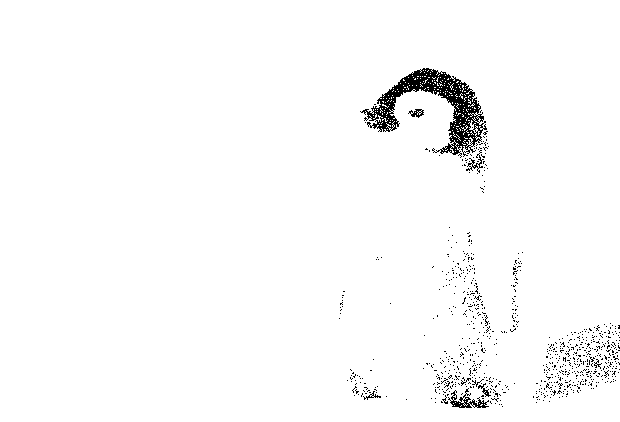
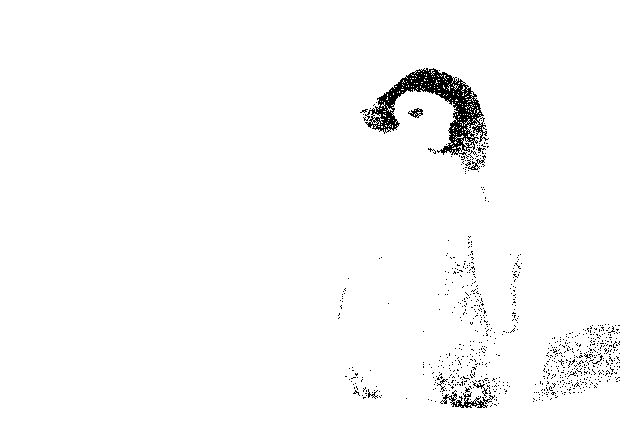
Change importance sampling image

diff --git a/examples/main.go b/examples/main.go
@@ -31,7 +31,7 @@ func main() {
 	halfgone.SaveImagePNG(rtd, "images/random_threshold_dithering.png")
 
 	// Importance sampling
-	var is = halfgone.ImportanceSampling{N: 2000, Threshold: 100, RNG: rng}.Apply(gray)
+	var is = halfgone.ImportanceSampling{N: 4000, Threshold: 100, RNG: rng}.Apply(gray)
 	halfgone.SaveImagePNG(is, "images/importance_sampling.png")
 
 	// Bosch and Herman’s grid-based dithering

diff --git a/README.md b/README.md
@@ -55,7 +55,7 @@ halfgone.RandomThresholdDitherer{MaxThreshold: 100, RNG: rng}.Apply(gray)
 ## Importance sampling
 
 ```go
-halfgone.ImportanceSampling{N: 2000, Threshold: 100, RNG: rng}.Apply(gray)
+halfgone.ImportanceSampling{N: 4000, Threshold: 100, RNG: rng}.Apply(gray)
 ```
 
 ![importance_sampling](examples/images/importance_sampling.png)
